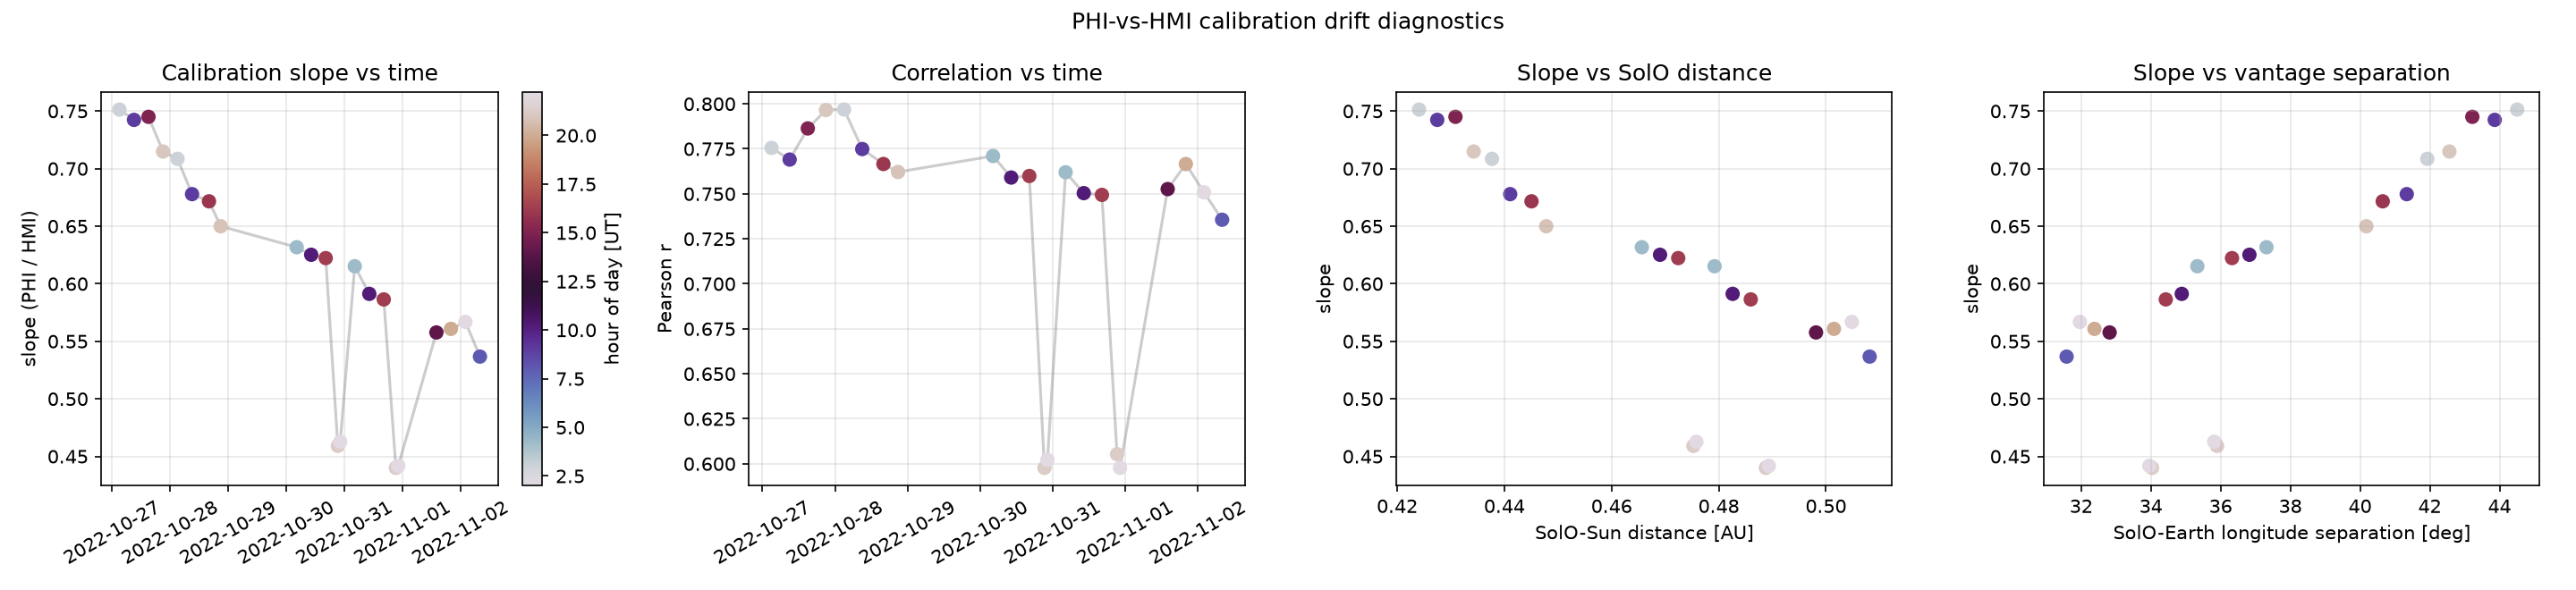
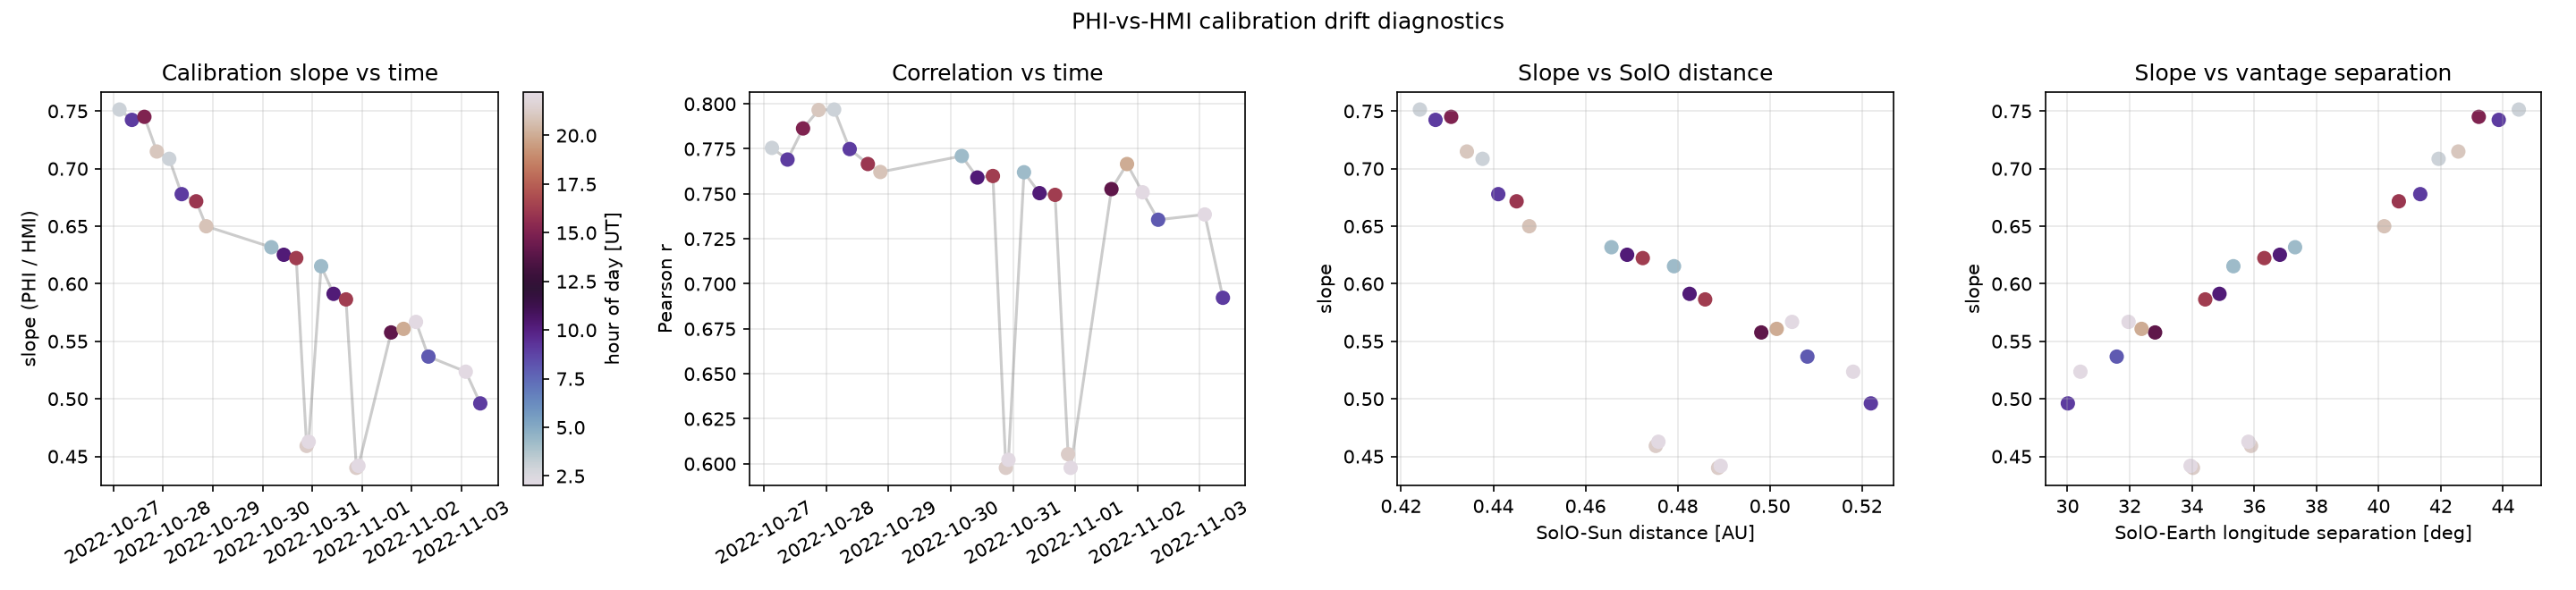
Ground Sect. 2.4 in the fresh 24-case CR 2264 calibration run
The header-repaired reproduction run produces the full 24-case CR 2264
calibration table (the earlier 22-case file was from the run with
broken HMI WCS headers). Swapped data/calibration_stats_cr2264.csv for
the 24-case version, regenerated figures/calibration_drift.png from it,
and corrected the three Sect. 2.4 numbers it settles:

  - case count 22 -> 24 (resolves the 22-vs-24 contradiction with
    Table 1 / Sect. 2.3 / Sect. 4.1, which all say 24)
  - slope endpoint ~0.54 -> ~0.50 (0.751 -> 0.496; restores the
    original figure, matching the paper_outline's 0.751 -> 0.496)
  - dsun range 0.51 -> 0.52 AU (max 0.522)
  - "seven cases at >=20h UT ... at slope 0.44-0.46" -> "four cases
    (the 21-22h UT observations on 30-31 October)": exactly four of
    the seven >=20h cases are below-trend; the other three sit on the
    main trend at slope 0.56-0.72. Verified against the CSV.

Rebuilt clean: 7 pages, no errors.

diff --git a/paper.tex b/paper.tex
@@ -122,7 +122,7 @@ Separation & $40^{\circ}$--$45^{\circ}$ & $0.3^{\circ}$--$180^{\circ}$ \\
 
 Two viewing-geometry systematics are handled explicitly. First, HMI's camera carries a $\approx 180^{\circ}$ \texttt{CROTA2} rotation; the native-geometry map path honours this through the full PC/CROTA orientation, and ignoring it mirrors the map between hemispheres and flips the sign of $g_{10}$ (a $-2.11 \rightarrow +2.20$\,G swing on the CR\,2264 subset in project mode) -- a cautionary systematic for any direct-geometry synoptic construction. Second, the line-of-sight field is converted to an approximate radial field as $B_r \approx B_{\rm los}/\mu^{\alpha}$ with a limb cut $\mu \ge \mu_{\rm min}$ (Sect.~\ref{sec:methods-radial}).
 
-Independent PHI-versus-HMI magnetic-field comparisons have established broad consistency between the two instruments for representative dates, both for SO/PHI-HRT \citep{Sinjan2023} and, closer to the data used here, SO/PHI-FDT \citep{MorenoVacas2024}; here per-case cross-calibration (through-origin regression over pixels with $|B|$ above a floor and $\mu \ge \mu_{\rm min}$) is computed for every case as a slope and Pearson correlation coefficient $r$, extending that check to a slope/$r$ trend over the full campaign. Over the CR\,2264 window (22 cases) the slope declines from 0.75 to $\approx 0.54$ as the Solar Orbiter--Sun distance grows from 0.42 to 0.51\,AU, tracking it nearly linearly at a stable $r \approx 0.76$ (Fig.~\ref{fig:caldrift}). The decline is not monotonic: a distinct cluster of late-UT cases (seven cases at $\ge 20$\,h UT) sits well below that trend at slope $\approx 0.44$--0.46 and a depressed $r \approx 0.60$, an observing-programme signature that is flagged and guarded against by the correlation floor below. In the 2025 campaign the slope is $\approx 0.55$ with $r \approx 0.8$ while the two spacecraft co-observe, and both the correlation and the slope collapse ($r \rightarrow 0.44$, slope $\rightarrow 0.31$) once the Solar Orbiter--Earth separation grows past $\approx 55^{\circ}$, as the co-observed disk shrinks towards the limb. Calibration is applied only when explicitly requested and only when $r$ exceeds a floor (default 0.5), and only when the two spacecraft actually co-observe.
+Independent PHI-versus-HMI magnetic-field comparisons have established broad consistency between the two instruments for representative dates, both for SO/PHI-HRT \citep{Sinjan2023} and, closer to the data used here, SO/PHI-FDT \citep{MorenoVacas2024}; here per-case cross-calibration (through-origin regression over pixels with $|B|$ above a floor and $\mu \ge \mu_{\rm min}$) is computed for every case as a slope and Pearson correlation coefficient $r$, extending that check to a slope/$r$ trend over the full campaign. Over the CR\,2264 window (24 cases) the slope declines from 0.75 to $\approx 0.50$ as the Solar Orbiter--Sun distance grows from 0.42 to 0.52\,AU, tracking it nearly linearly at a stable $r \approx 0.76$ (Fig.~\ref{fig:caldrift}). The decline is not monotonic: a distinct cluster of four late-UT cases (the 21--22\,h UT observations on 30--31 October) sits well below that trend at slope $\approx 0.44$--0.46 and a depressed $r \approx 0.60$, an observing-programme signature that is flagged and guarded against by the correlation floor below. In the 2025 campaign the slope is $\approx 0.55$ with $r \approx 0.8$ while the two spacecraft co-observe, and both the correlation and the slope collapse ($r \rightarrow 0.44$, slope $\rightarrow 0.31$) once the Solar Orbiter--Earth separation grows past $\approx 55^{\circ}$, as the co-observed disk shrinks towards the limb. Calibration is applied only when explicitly requested and only when $r$ exceeds a floor (default 0.5), and only when the two spacecraft actually co-observe.
 
 \begin{figure*}
 \centering